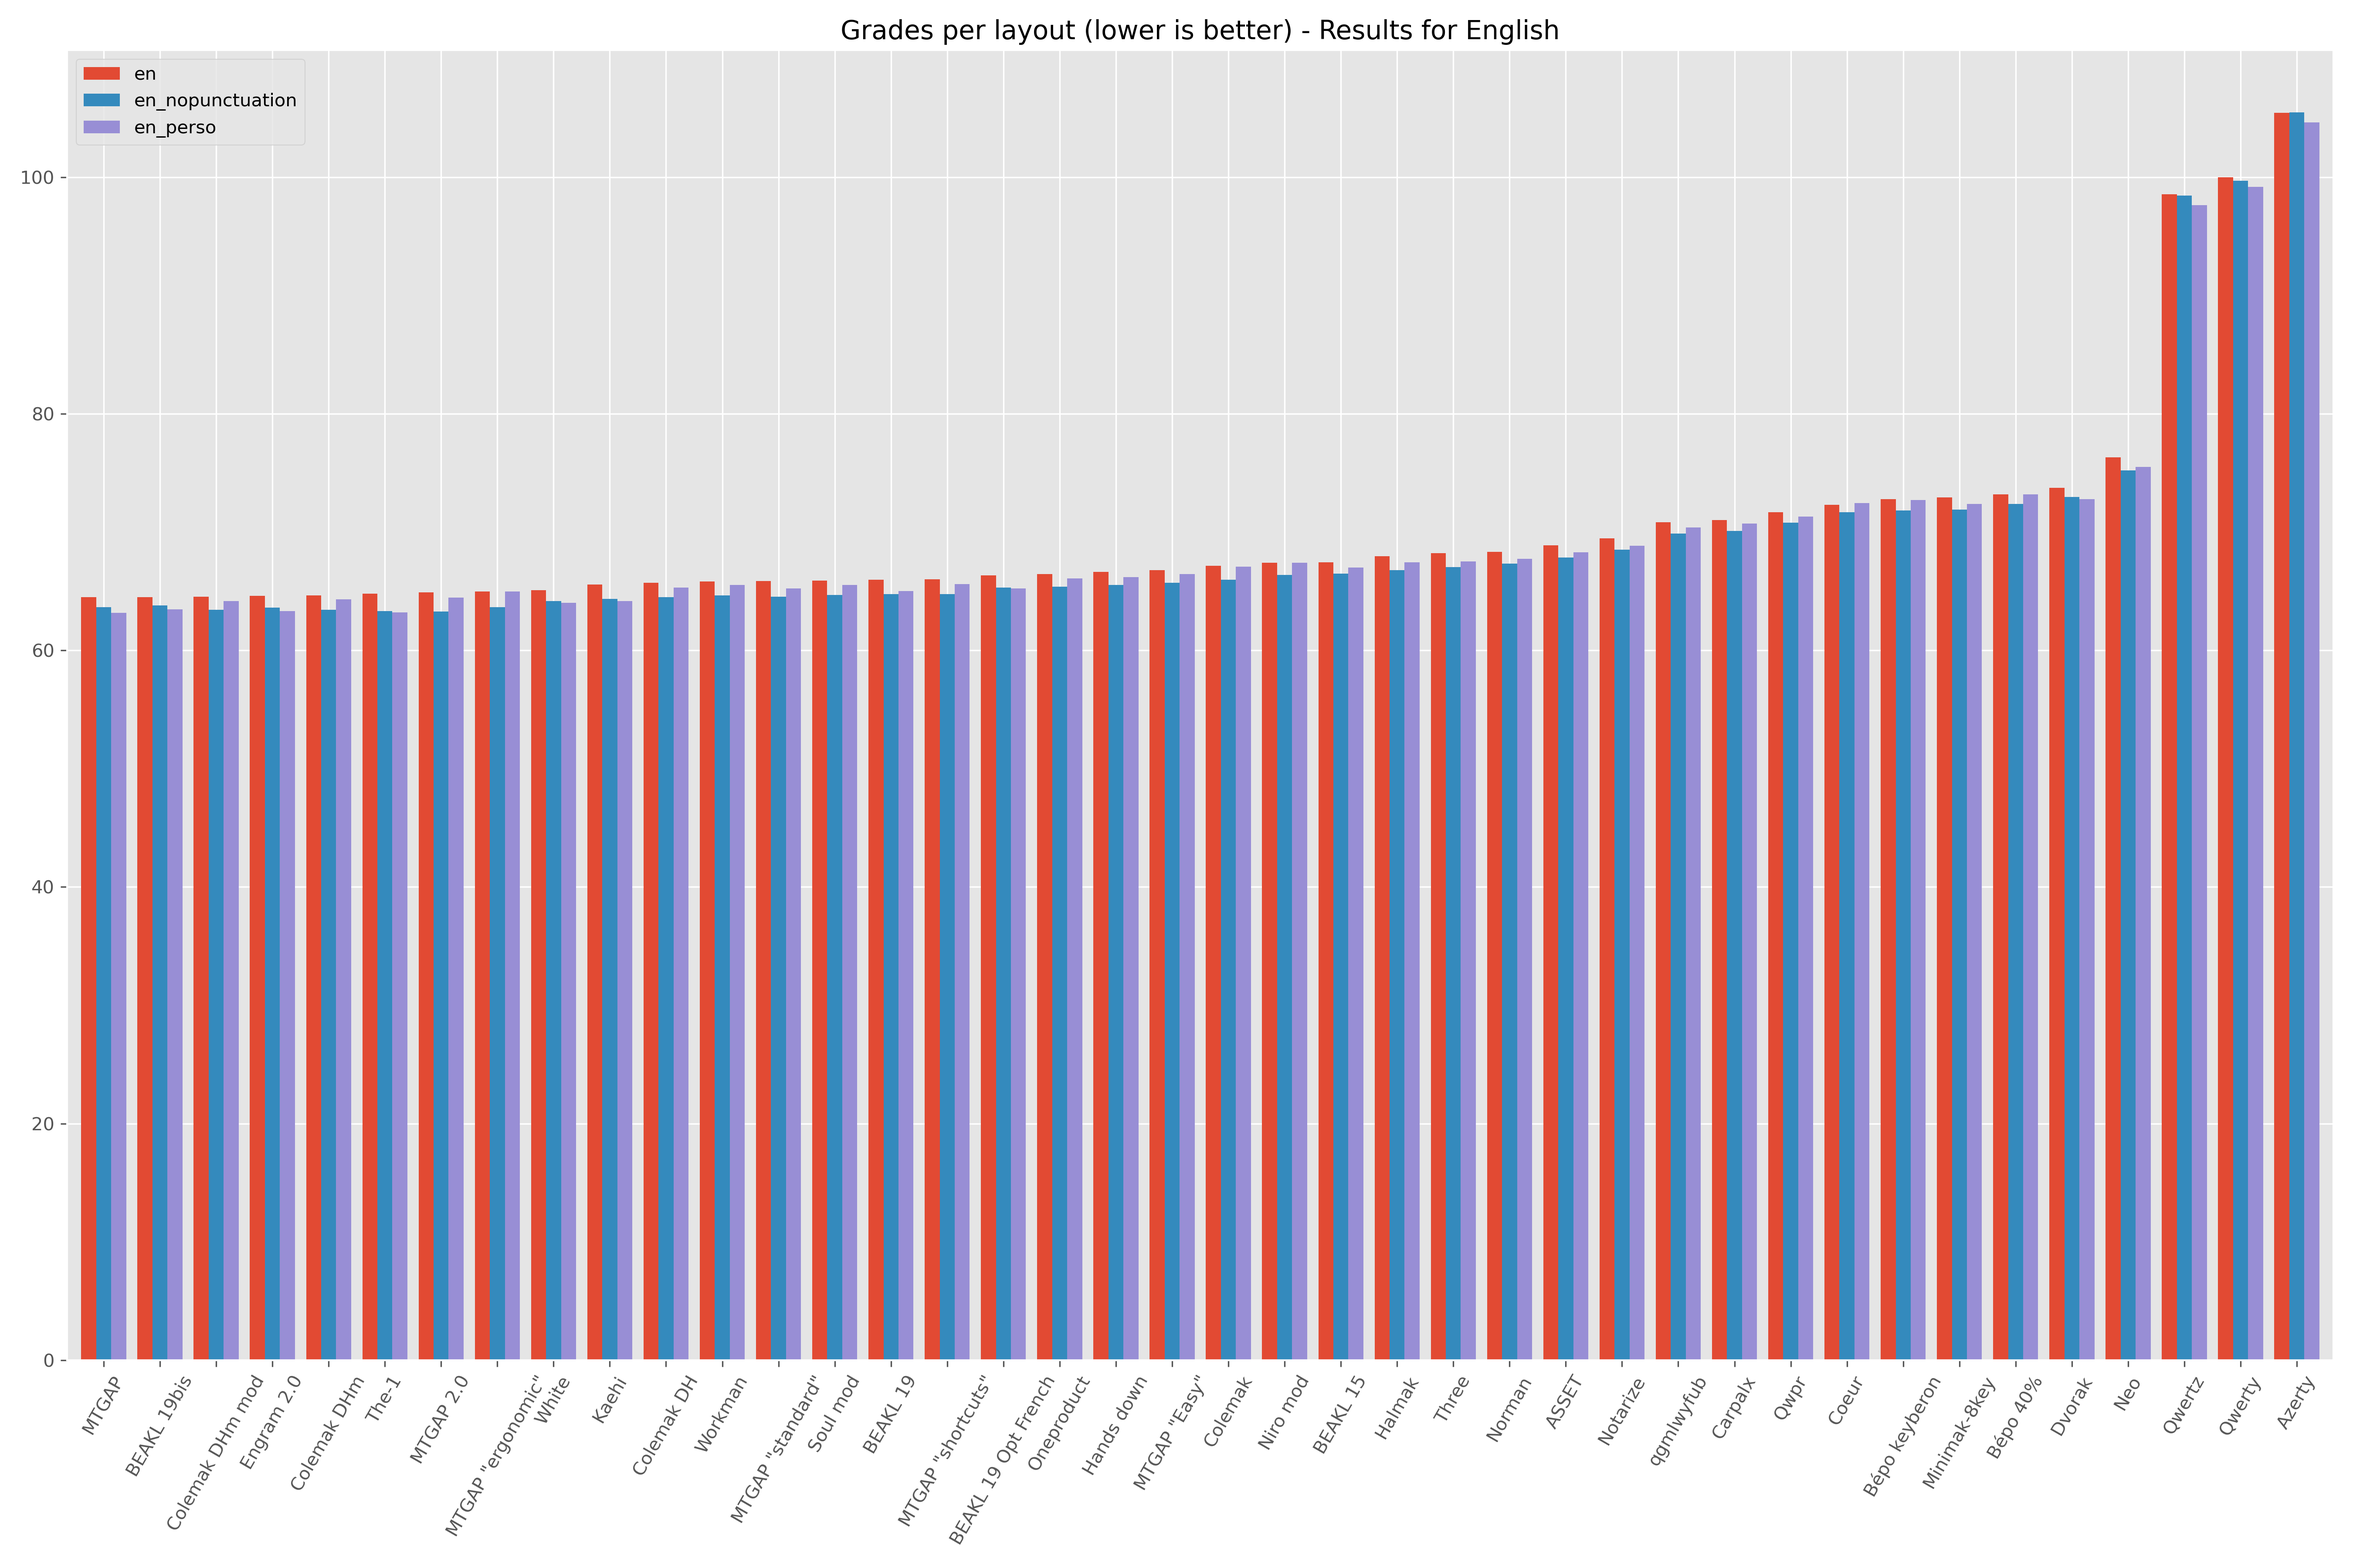
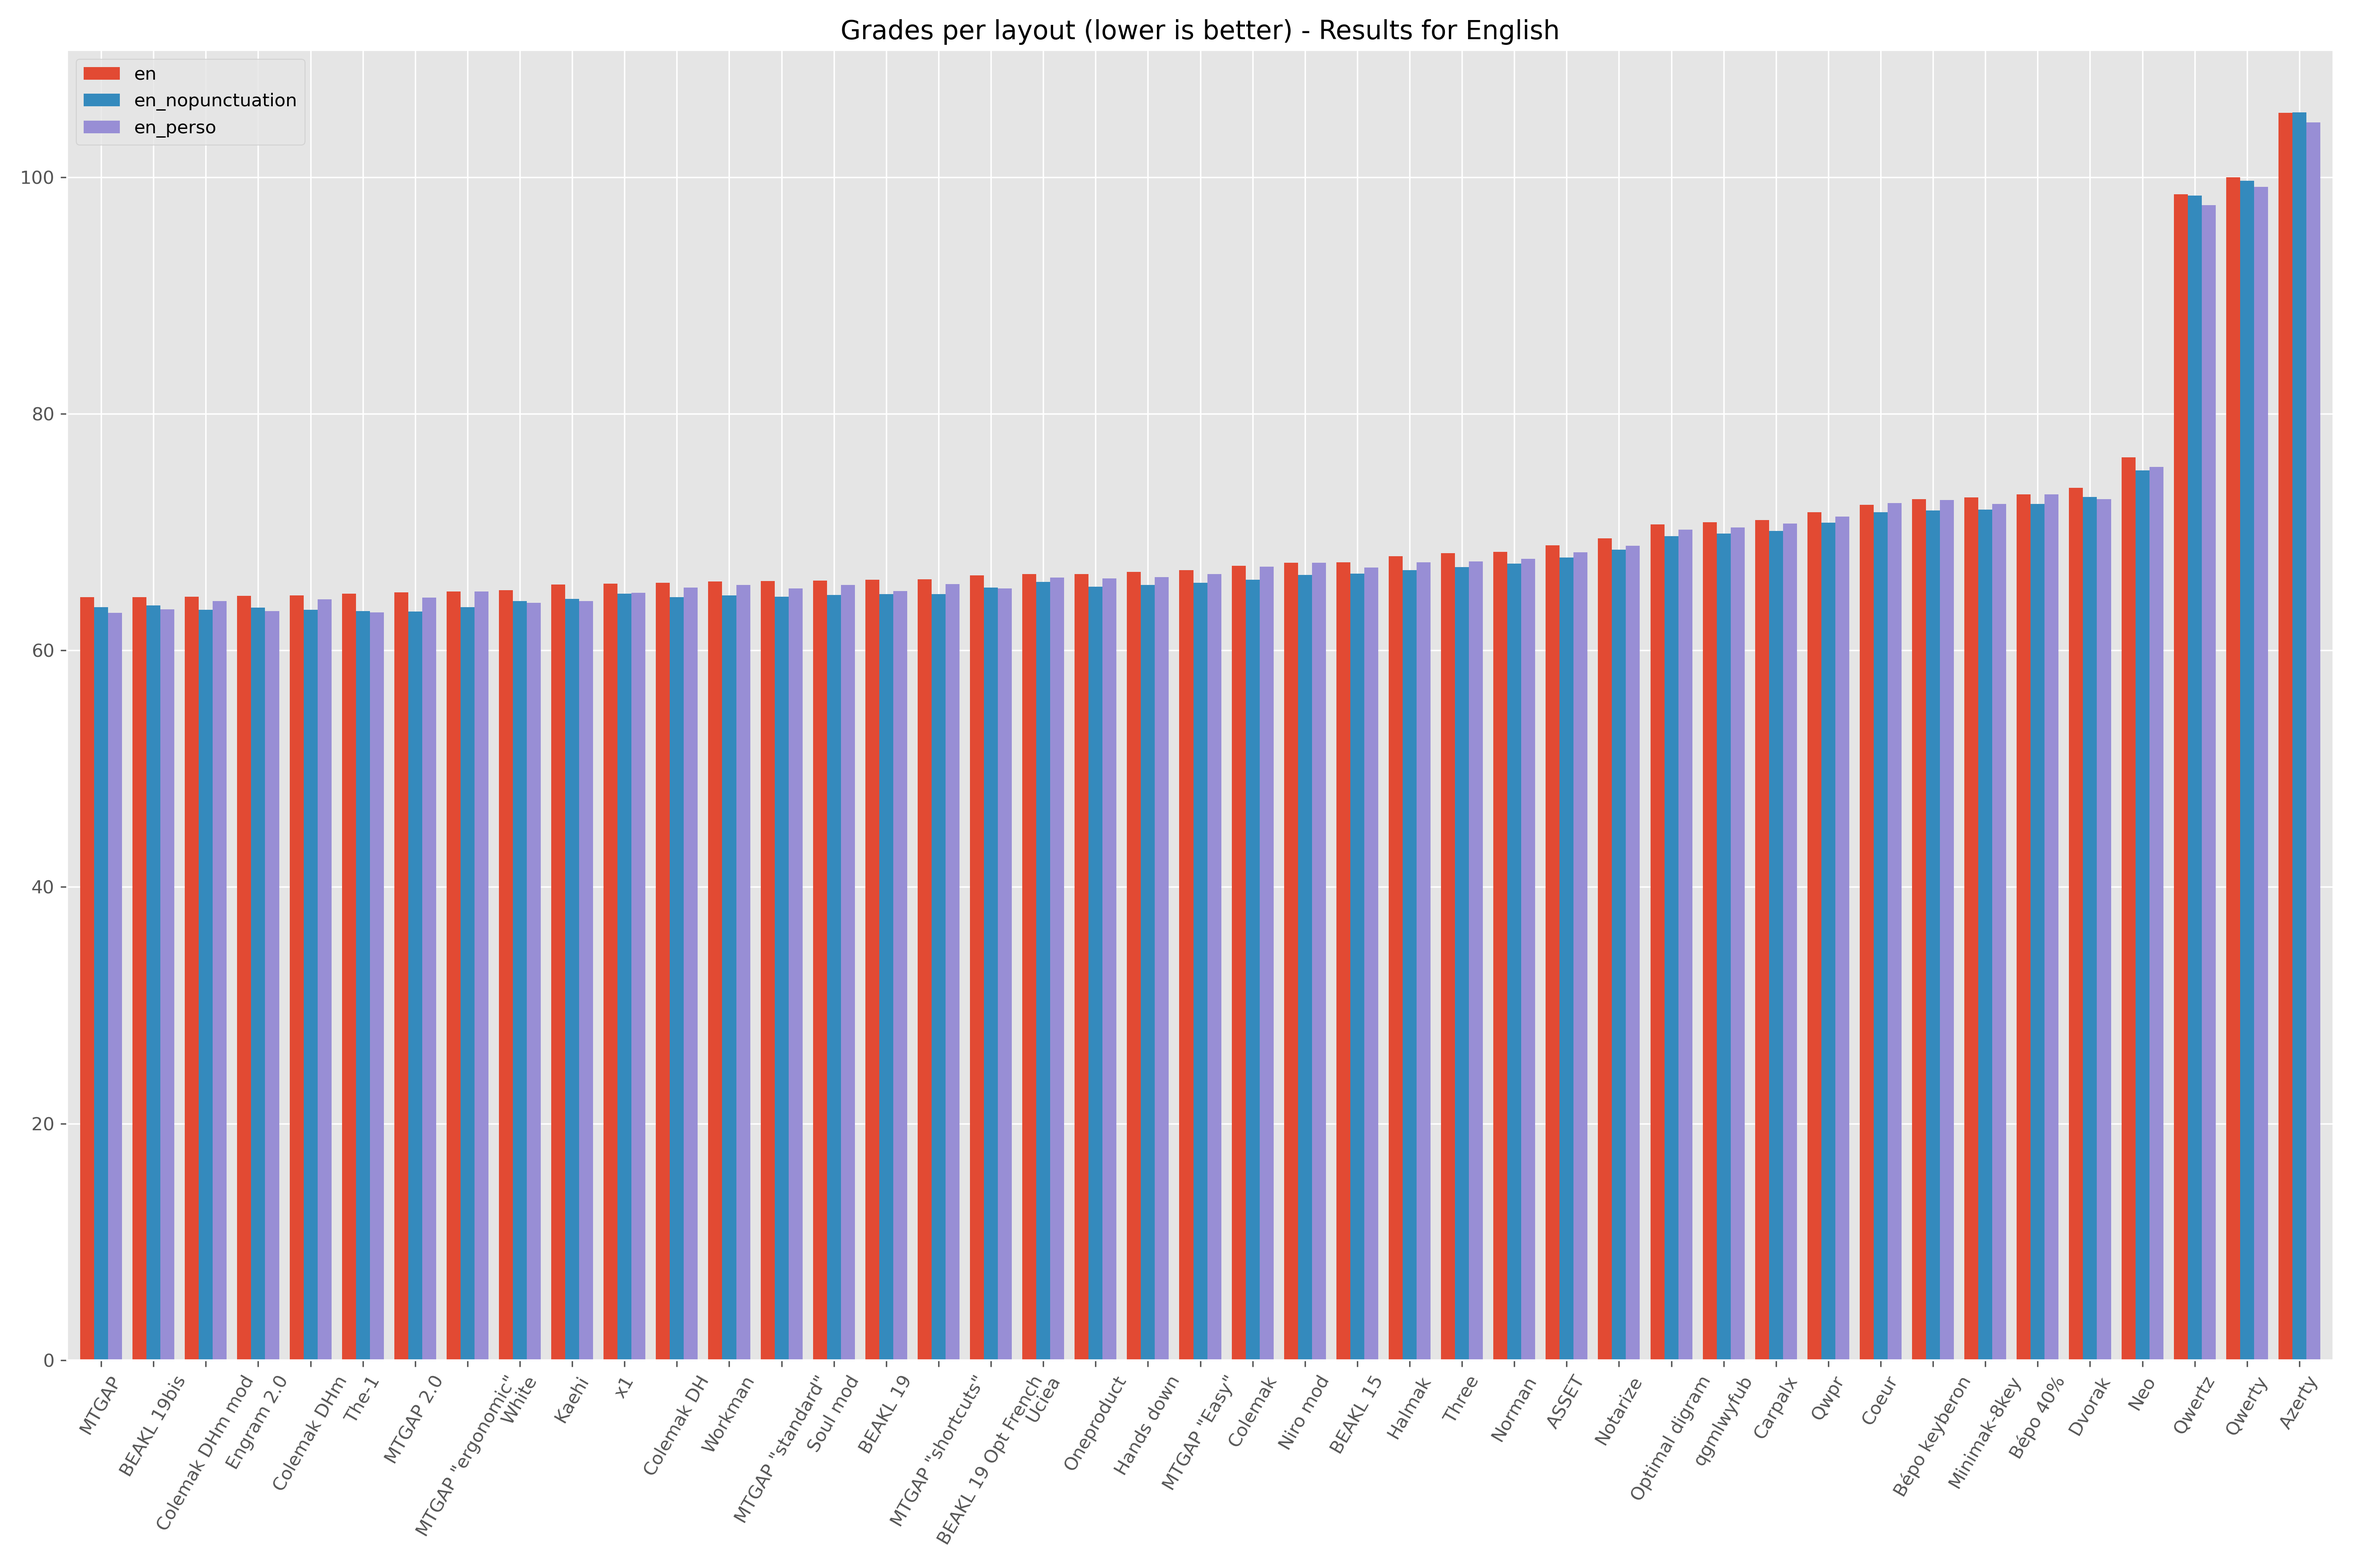
added layouts from #8

diff --git a/README.md b/README.md
@@ -228,6 +228,7 @@ Here is the complete results list. The layouts can be seen in `config.txt`.
 | [MTGAP "ergonomic"](http://mtgap.bilfo.com/official_keyboard.html)                                                                            |   64.99 |         64.96 |  69.18 |        68.63 |   64.81 |  66.23 |   66.72 |
 | [White](https://github.com/mw8/white_keyboard_layout)                                                                                         |   65.10 |         64.00 |  73.60 |        73.76 |   68.09 |  66.50 |   69.55 |
 | [Kaehi](https://geekhack.org/index.php?topic=98275.0)                                                                                         |   65.56 |         64.18 |  70.35 |        69.09 |   65.92 |  67.83 |   67.94 |
+| [x1](https://keyboard-design.com/letterlayout.html?layout=x1.en.ergodox)                                                                      |   65.63 |         64.87 |  69.76 |        69.23 |   66.28 |  68.03 |   67.91 |
 | [Colemak DH](https://colemakmods.github.io/mod-dh/)                                                                                           |   65.71 |         65.29 |  69.32 |        68.64 |   65.67 |  65.43 |   68.46 |
 | [Workman](https://workmanlayout.org/)                                                                                                         |   65.83 |         65.51 |  71.42 |        70.57 |   66.85 |  66.93 |   71.31 |
 | [MTGAP "standard"](http://mtgap.bilfo.com/official_keyboard.html)                                                                             |   65.84 |         65.24 |  68.35 |        67.27 |   64.43 |  66.78 |   66.74 |
@@ -235,6 +236,7 @@ Here is the complete results list. The layouts can be seen in `config.txt`.
 | [BEAKL 19](https://web.archive.org/web/20190906220509/http://shenafu.com/smf/index.php?topic=89.msg2566#msg2566)                              |   65.98 |         65.00 |  70.36 |        68.28 |   66.12 |  66.99 |   68.85 |
 | [MTGAP "shortcuts"](http://mtgap.bilfo.com/official_keyboard.html) (ROTS)                                                                     |   66.02 |         65.59 |  68.24 |        67.30 |   62.72 |  65.44 |   66.34 |
 | [BEAKL 19 Opt French](https://www.reddit.com/r/ErgoMechKeyboards/comments/j1eopm/hands_down_layout_is_ready_for_daily_use/g7bjmr7/?context=3) |   66.32 |         65.23 |  67.12 |        65.96 |   65.85 |  65.31 |   69.32 |
+| [Uciea](https://keyboard-design.com/letterlayout.html?layout=uciea-keyboard.en.ansi)                                                          |   66.43 |         66.14 |  69.36 |        68.61 |   65.01 |  65.99 |   68.32 |
 | [Oneproduct](https://geekhack.org/index.php?topic=67604.0)                                                                                    |   66.44 |         66.07 |  73.48 |        72.44 |   68.07 |  68.45 |   69.22 |
 | [Hands down](https://sites.google.com/alanreiser.com/handsdown)                                                                               |   66.64 |         66.20 |  68.97 |        67.21 |   66.10 |  63.14 |   66.66 |
 | [MTGAP "Easy"](http://mtgap.bilfo.com/official_keyboard.html)                                                                                 |   66.78 |         66.44 |  68.63 |        67.15 |   64.55 |  64.97 |   65.35 |
@@ -246,6 +248,7 @@ Here is the complete results list. The layouts can be seen in `config.txt`.
 | [Norman](https://normanlayout.info/)                                                                                                          |   68.34 |         67.74 |  74.01 |        72.48 |   71.24 |  69.86 |   72.10 |
 | [ASSET](http://millikeys.sourceforge.net/asset/)                                                                                              |   68.88 |         68.29 |  69.42 |        67.53 |   66.69 |  70.35 |   71.03 |
 | [Notarize](https://sites.google.com/alanreiser.com/handsdown)                                                                                 |   69.45 |         68.83 |  70.76 |        68.81 |   67.68 |  69.21 |   67.94 |
+| [Optimal digram](https://keyboard-design.com/letterlayout.html?layout=optimal-digram.en.ansi)                                                 |   70.64 |         70.21 |  72.36 |        71.53 |   68.94 |  70.21 |   70.11 |
 | [qgmlwyfub](http://mkweb.bcgsc.ca/carpalx/?full_optimization)                                                                                 |   70.83 |         70.39 |  75.87 |        76.11 |   70.24 |  72.16 |   73.71 |
 | [Carpalx](http://mkweb.bcgsc.ca/carpalx/?full_optimization)                                                                                   |   71.02 |         70.70 |  76.25 |        76.62 |   70.86 |  74.00 |   74.53 |
 | [Qwpr](https://sourceforge.net/projects/qwpr/)                                                                                                |   71.69 |         71.30 |  73.36 |        72.93 |   69.44 |  73.07 |   71.69 |
